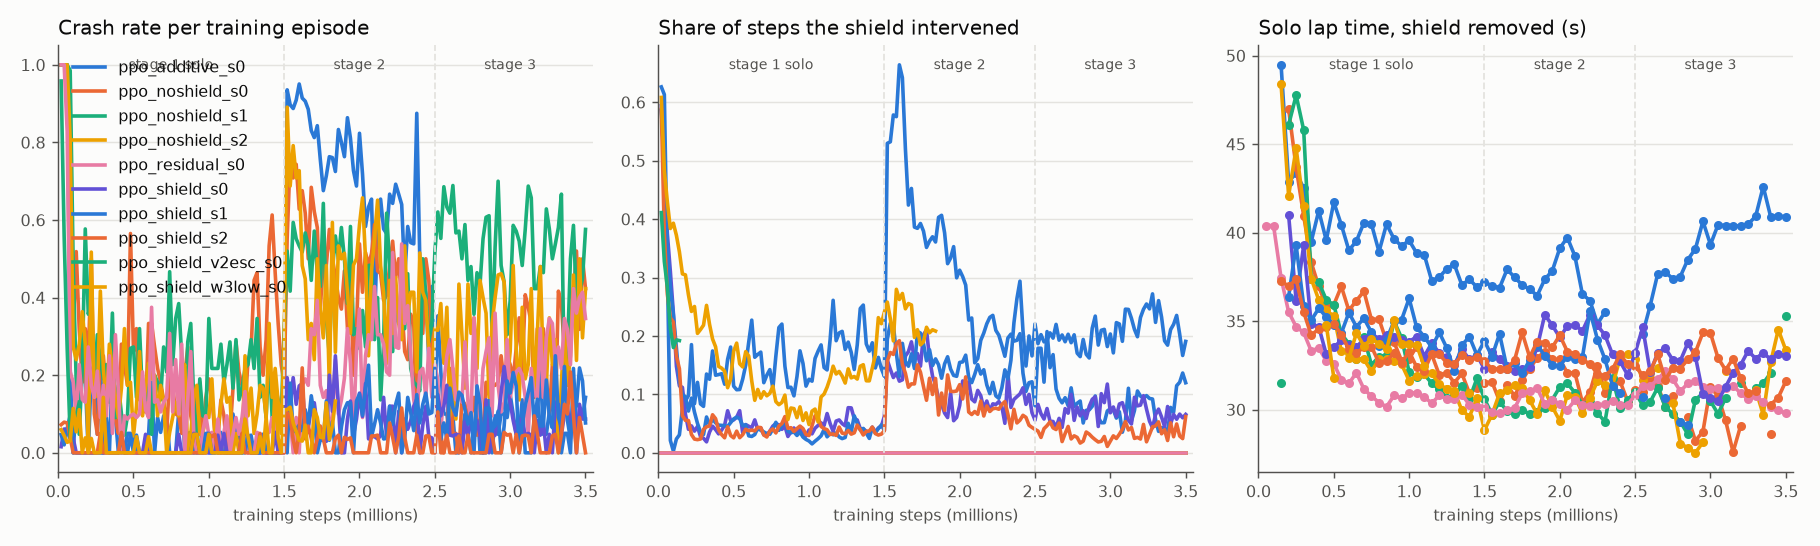
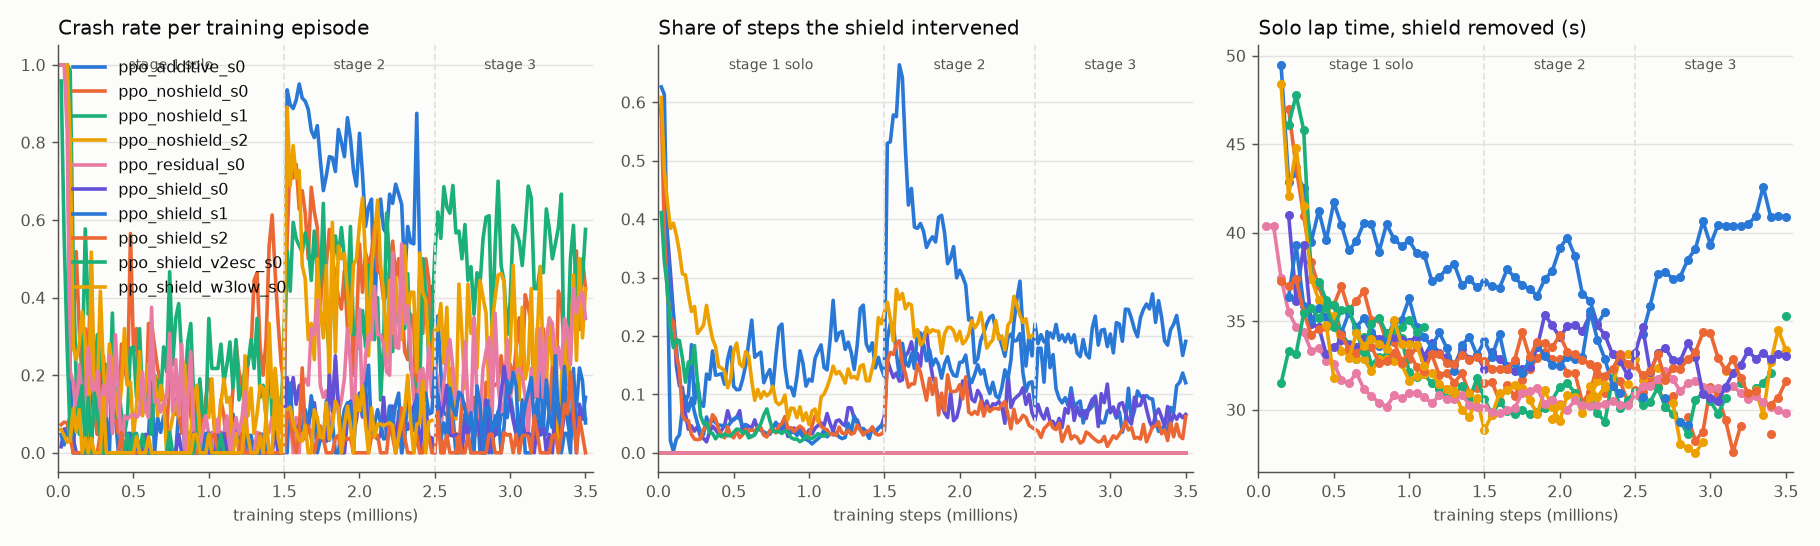
Auto-sync training progress (20:34)

diff --git a/RUNS.md b/RUNS.md
@@ -1,6 +1,6 @@
 # Run registry
 
-Auto-generated by `python -m scripts.update_registry` (2026-11-04 20:15). Each run directory `runs/<run>/` holds `args.json`, `run_info.json` (git commit, command, status), `train_log.csv` (every ~20k steps), `eval_log.csv` (solo laps with/without shield every 50k steps), `model_stage*.zip` + `vecnorm_stage*.pkl` (checkpoint after each curriculum stage). TensorBoard logs (`runs/*/tb`) stay local.
+Auto-generated by `python -m scripts.update_registry` (2026-11-04 20:34). Each run directory `runs/<run>/` holds `args.json`, `run_info.json` (git commit, command, status), `train_log.csv` (every ~20k steps), `eval_log.csv` (solo laps with/without shield every 50k steps), `model_stage*.zip` + `vecnorm_stage*.pkl` (checkpoint after each curriculum stage). TensorBoard logs (`runs/*/tb`) stay local.
 
 ## Training runs
 
@@ -14,8 +14,8 @@ Auto-generated by `python -m scripts.update_registry` (2026-11-04 20:15). Each r
 | `ppo_shield_s0` | Ours: PPO + action-conditioned APF shield with fallback (grip reach), all stages | shield=cond_fb_grip seed=0 tyre=saturated | `afc94c8 +dirty` | finished | 3.50M | 1% / 9% / 7% | 200k | 30.48 / 33.04 | 6% | stage1, stage2, stage3 |
 | `ppo_shield_s1` | Ours, seed 1 | shield=cond_fb_grip seed=1 tyre=saturated | `0152028` | finished | 3.50M | 1% / 9% / 11% | 200k | 29.12 / 29.12 | 20% | stage1, stage2, stage3 |
 | `ppo_shield_s2` | Ours, seed 2 | shield=cond_fb_grip seed=2 tyre=saturated | `41be473` | finished | 3.50M | 1% / 3% / 3% | 150k | 30.28 / 31.60 | 4% | stage1, stage2, stage3 |
-| `ppo_shield_v2esc_s0` | Ours, improved: shield with deadlock escape, trained on the post-spin-fixed simulator | shield=cond_fb_grip_esc seed=0 tyre=saturated_v2 | `1bb44f8` | running | 0.20M | 25% / - / - | 150k | 31.48 / 33.32 | 16% | - |
-| `ppo_shield_w3low_s0` | Timidity test: ours with intervention penalty w3 = 0.02 (default 0.1) | shield=cond_fb_grip seed=0 tyre=saturated | `8eb284b` | running | 1.88M | 2% / 7% / - | 450k | 30.96 / 30.96 | 20% | stage1 |
+| `ppo_shield_v2esc_s0` | Ours, improved: shield with deadlock escape, trained on the post-spin-fixed simulator | shield=cond_fb_grip_esc seed=0 tyre=saturated_v2 | `1bb44f8` | running | 1.10M | 6% / - / - | 150k | 31.48 / 34.68 | 3% | - |
+| `ppo_shield_w3low_s0` | Timidity test: ours with intervention penalty w3 = 0.02 (default 0.1) | shield=cond_fb_grip seed=0 tyre=saturated | `8eb284b` | running | 2.48M | 2% / 7% / - | 450k | 29.48 / 31.44 | 22% | stage1 |
 
 ### Commands and notes
 
@@ -42,6 +42,7 @@ Auto-generated by `python -m scripts.update_registry` (2026-11-04 20:15). Each r
 | `eval_escape_v3.json` | E19: escape v3 |
 | `eval_escape_v4.json` | E19: final shield (escape v4) seed 0, original shield on v2, residual + escape shield |
 | `eval_escape_v4_s1.json` | Final shield, seed 1 |
+| `eval_escape_v4_s2.json` |  |
 | `eval_ppo_additive_s0.json` | E9: PPO trained + raced with the additive Eq. 2/3 shield (v1 simulator) |
 | `eval_ppo_noshield_s1.json` | No shield, seed 1 (v1 simulator) |
 | `eval_ppo_noshield_s2.json` |  |
@@ -50,6 +51,7 @@ Auto-generated by `python -m scripts.update_registry` (2026-11-04 20:15). Each r
 | `eval_ppo_shield_s2.json` |  |
 | `eval_residual_apf_s0.json` | E8: residual policy with our shield added at race time |
 | `eval_residual_s0.json` | E8: race evaluation of the residual (ResRace-style) policy |
+| `final_v2_noshield_s2.json` |  |
 | `final_v2_others.json` | Every non-final controller re-raced on the saturated_v2 simulator |
 | `gg_diagrams.png` | g-g diagrams per controller (scripts/plot_gg.py) |
 | `seed_summary.md` | Mean +- std across training seeds |

diff --git a/results/training_efficiency.md b/results/training_efficiency.md
@@ -12,5 +12,5 @@ Solo laps every 50k steps, standing start. 'fast' = under 34 s (best classical s
 | `ppo_shield_s0` | cond_fb_grip | 3500k | 200k | 450k | 8 | 234 (4158) | 30.48 |
 | `ppo_shield_s1` | cond_fb_grip | 3500k | 200k | 800k | 9 | 313 (4572) | 29.12 |
 | `ppo_shield_s2` | cond_fb_grip | 3500k | 150k | 600k | 11 | 96 (3965) | 30.28 |
-| `ppo_shield_v2esc_s0` | cond_fb_grip_esc tyre=saturated_v2 | 160k | 150k | 150k | 76 | 80 (215) | 31.48 |
-| `ppo_shield_w3low_s0` | cond_fb_grip | 1840k | 450k | 500k | 24 | 77 (2353) | 30.96 |
+| `ppo_shield_v2esc_s0` | cond_fb_grip_esc tyre=saturated_v2 | 1120k | 150k | 150k | 76 | 98 (1193) | 31.48 |
+| `ppo_shield_w3low_s0` | cond_fb_grip | 2480k | 450k | 500k | 24 | 144 (3207) | 29.48 |
